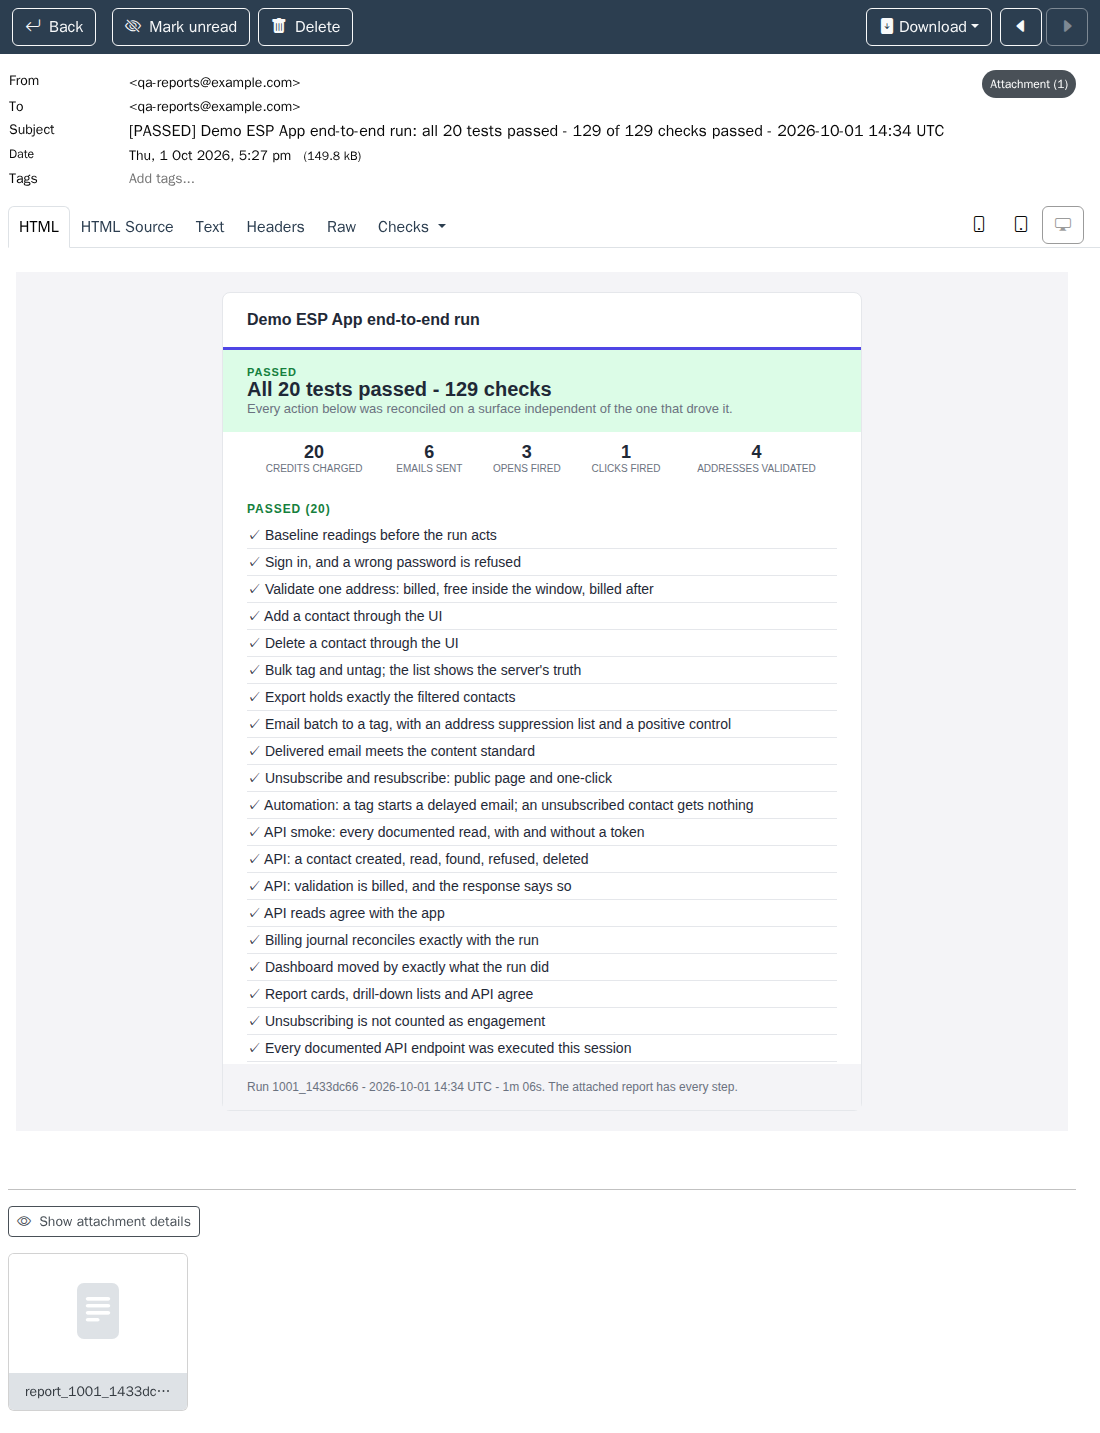
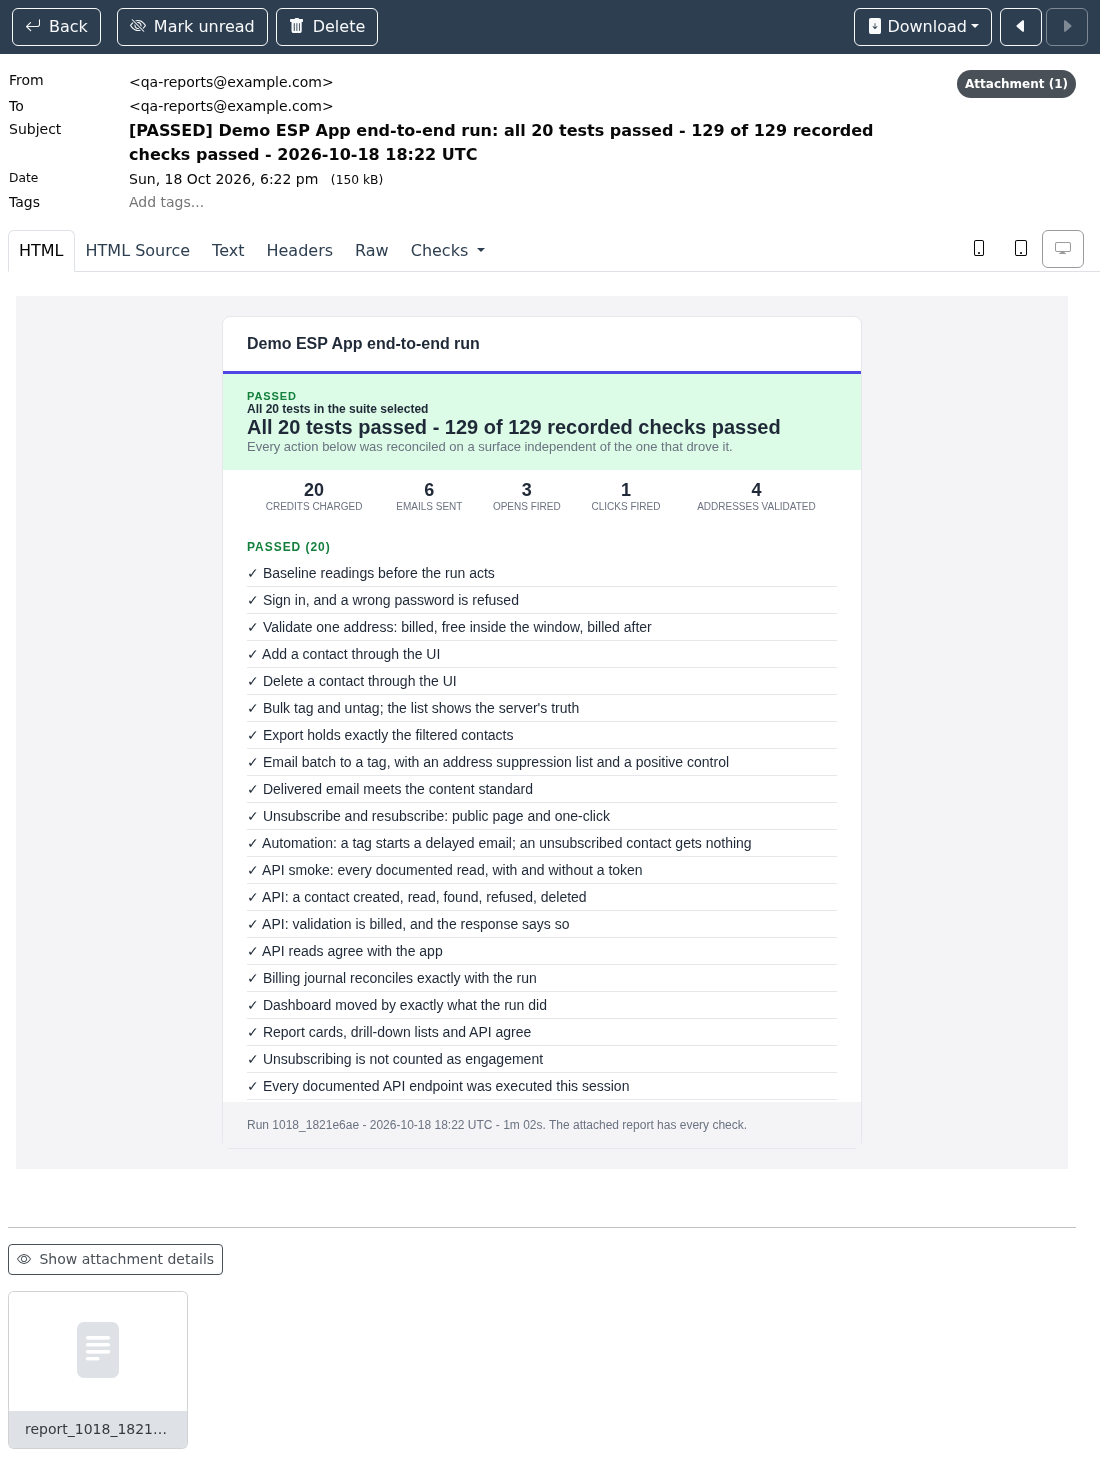
Regenerate the report screenshots, and keep the script that takes them

diff --git a/scripts/shoot_images.py b/scripts/shoot_images.py
@@ -1,0 +1,109 @@
+"""Screenshots of a run's report email and report, at the width the README uses."""
+import json
+import os
+import sys
+import urllib.parse
+import urllib.request
+from pathlib import Path
+
+from playwright.sync_api import expect, sync_playwright
+
+from framework import tokens
+
+WIDTH = 1100
+MAILPIT = os.getenv("E2E_MAILPIT_URL", "http://mailpit:8025").rstrip("/")
+SENDER = os.getenv("E2E_REPORT_FROM", "qa-reports@example.com")
+
+
+def email_id_for(run_id: str) -> str:
+    # The inbox holds a report per run, so the run id picks this run's own.
+    query = urllib.parse.urlencode({"query": f'from:"{SENDER}" "{run_id}"', "limit": 1})
+    with urllib.request.urlopen(f"{MAILPIT}/api/v1/search?{query}", timeout=20) as answer:
+        messages = json.load(answer).get("messages") or []
+    if not messages:
+        raise SystemExit(f"no report email from {SENDER} for run {run_id}")
+    return messages[0]["ID"]
+
+
+GROW_FRAME = """() => {
+  const frame = document.querySelector('iframe');
+  if (!frame) return 0;
+  if (frame.contentDocument) {
+    frame.style.height = frame.contentDocument.body.scrollHeight + 'px';
+  }
+  for (let el = frame.parentElement; el; el = el.parentElement) {
+    el.style.overflow = 'visible';
+    el.style.height = 'auto';
+    el.style.maxHeight = 'none';
+  }
+  return Math.max(document.body.scrollHeight, document.documentElement.scrollHeight);
+}"""
+MAX_HEIGHT = 6000
+REPORT_MAX_HEIGHT = 1750
+
+
+def fit_to_content(page):
+    # Mailpit scrolls an inner panel, so a full-page shot would stop at the viewport.
+    height = page.evaluate(GROW_FRAME)
+    page.set_viewport_size({"width": WIDTH, "height": min(int(height) + 40, MAX_HEIGHT)})
+
+
+COVER = (1000, 750)
+LIFT_THE_FAILURE = """(marker) => {
+  document.querySelectorAll('h2').forEach((h) => { h.style.display = 'none'; });
+  document.querySelectorAll('details').forEach((card) => {
+    if (card.textContent.includes(marker)) { card.open = true; }
+    else { card.style.display = 'none'; }
+  });
+}"""
+
+
+def shoot_cover(page, target: Path, marker: str):
+    # The cover is the verdict with the failure right under it, the rest folded away.
+    page.set_viewport_size({"width": COVER[0], "height": COVER[1]})
+    page.evaluate(LIFT_THE_FAILURE, marker)
+    target.parent.mkdir(parents=True, exist_ok=True)
+    page.screenshot(path=str(target), clip={"x": 0, "y": 0,
+                                            "width": COVER[0], "height": COVER[1]})
+    print(f"[shot] {target}")
+
+
+def shoot(page, target: Path, max_height: int = 0):
+    target.parent.mkdir(parents=True, exist_ok=True)
+    tall = page.evaluate("() => document.documentElement.scrollHeight")
+    clip = None
+    if max_height and tall > max_height:
+        # A failing report runs long; the README shows its head and links the rest.
+        clip = {"x": 0, "y": 0, "width": WIDTH, "height": max_height}
+    page.screenshot(path=str(target), full_page=True, clip=clip)
+    print(f"[shot] {target}")
+
+
+def main():
+    label = sys.argv[1] if len(sys.argv) > 1 else "clean"
+    run_dir = tokens.newest_run(Path(os.getenv("E2E_RESULTS_DIR", "reports")), label)
+    if run_dir is None:
+        raise SystemExit(f"no finished run labelled {label}")
+    out = run_dir.parent / "images" / label
+    with sync_playwright() as play:
+        browser = play.chromium.launch()
+        page = browser.new_context(viewport={"width": WIDTH, "height": 900}).new_page()
+
+        run_id = run_dir.name.rsplit("-", 1)[0]
+        page.goto(f"{MAILPIT}/view/{email_id_for(run_id)}")
+        # Mailpit renders the email in a frame; its own chrome is part of the picture.
+        expect(page.locator("iframe").first).to_be_visible()
+        fit_to_content(page)
+        shoot(page, out / "email.png")
+
+        page.set_viewport_size({"width": WIDTH, "height": 900})
+        page.goto((run_dir / "report.html").resolve().as_uri())
+        expect(page.get_by_text("recorded checks passed").first).to_be_visible()
+        shoot(page, out / "report.png", max_height=REPORT_MAX_HEIGHT)
+        if label != "clean":
+            shoot_cover(page, out / "cover.png", os.getenv("E2E_COVER_TEST", "#8 "))
+        browser.close()
+
+
+if __name__ == "__main__":
+    main()
